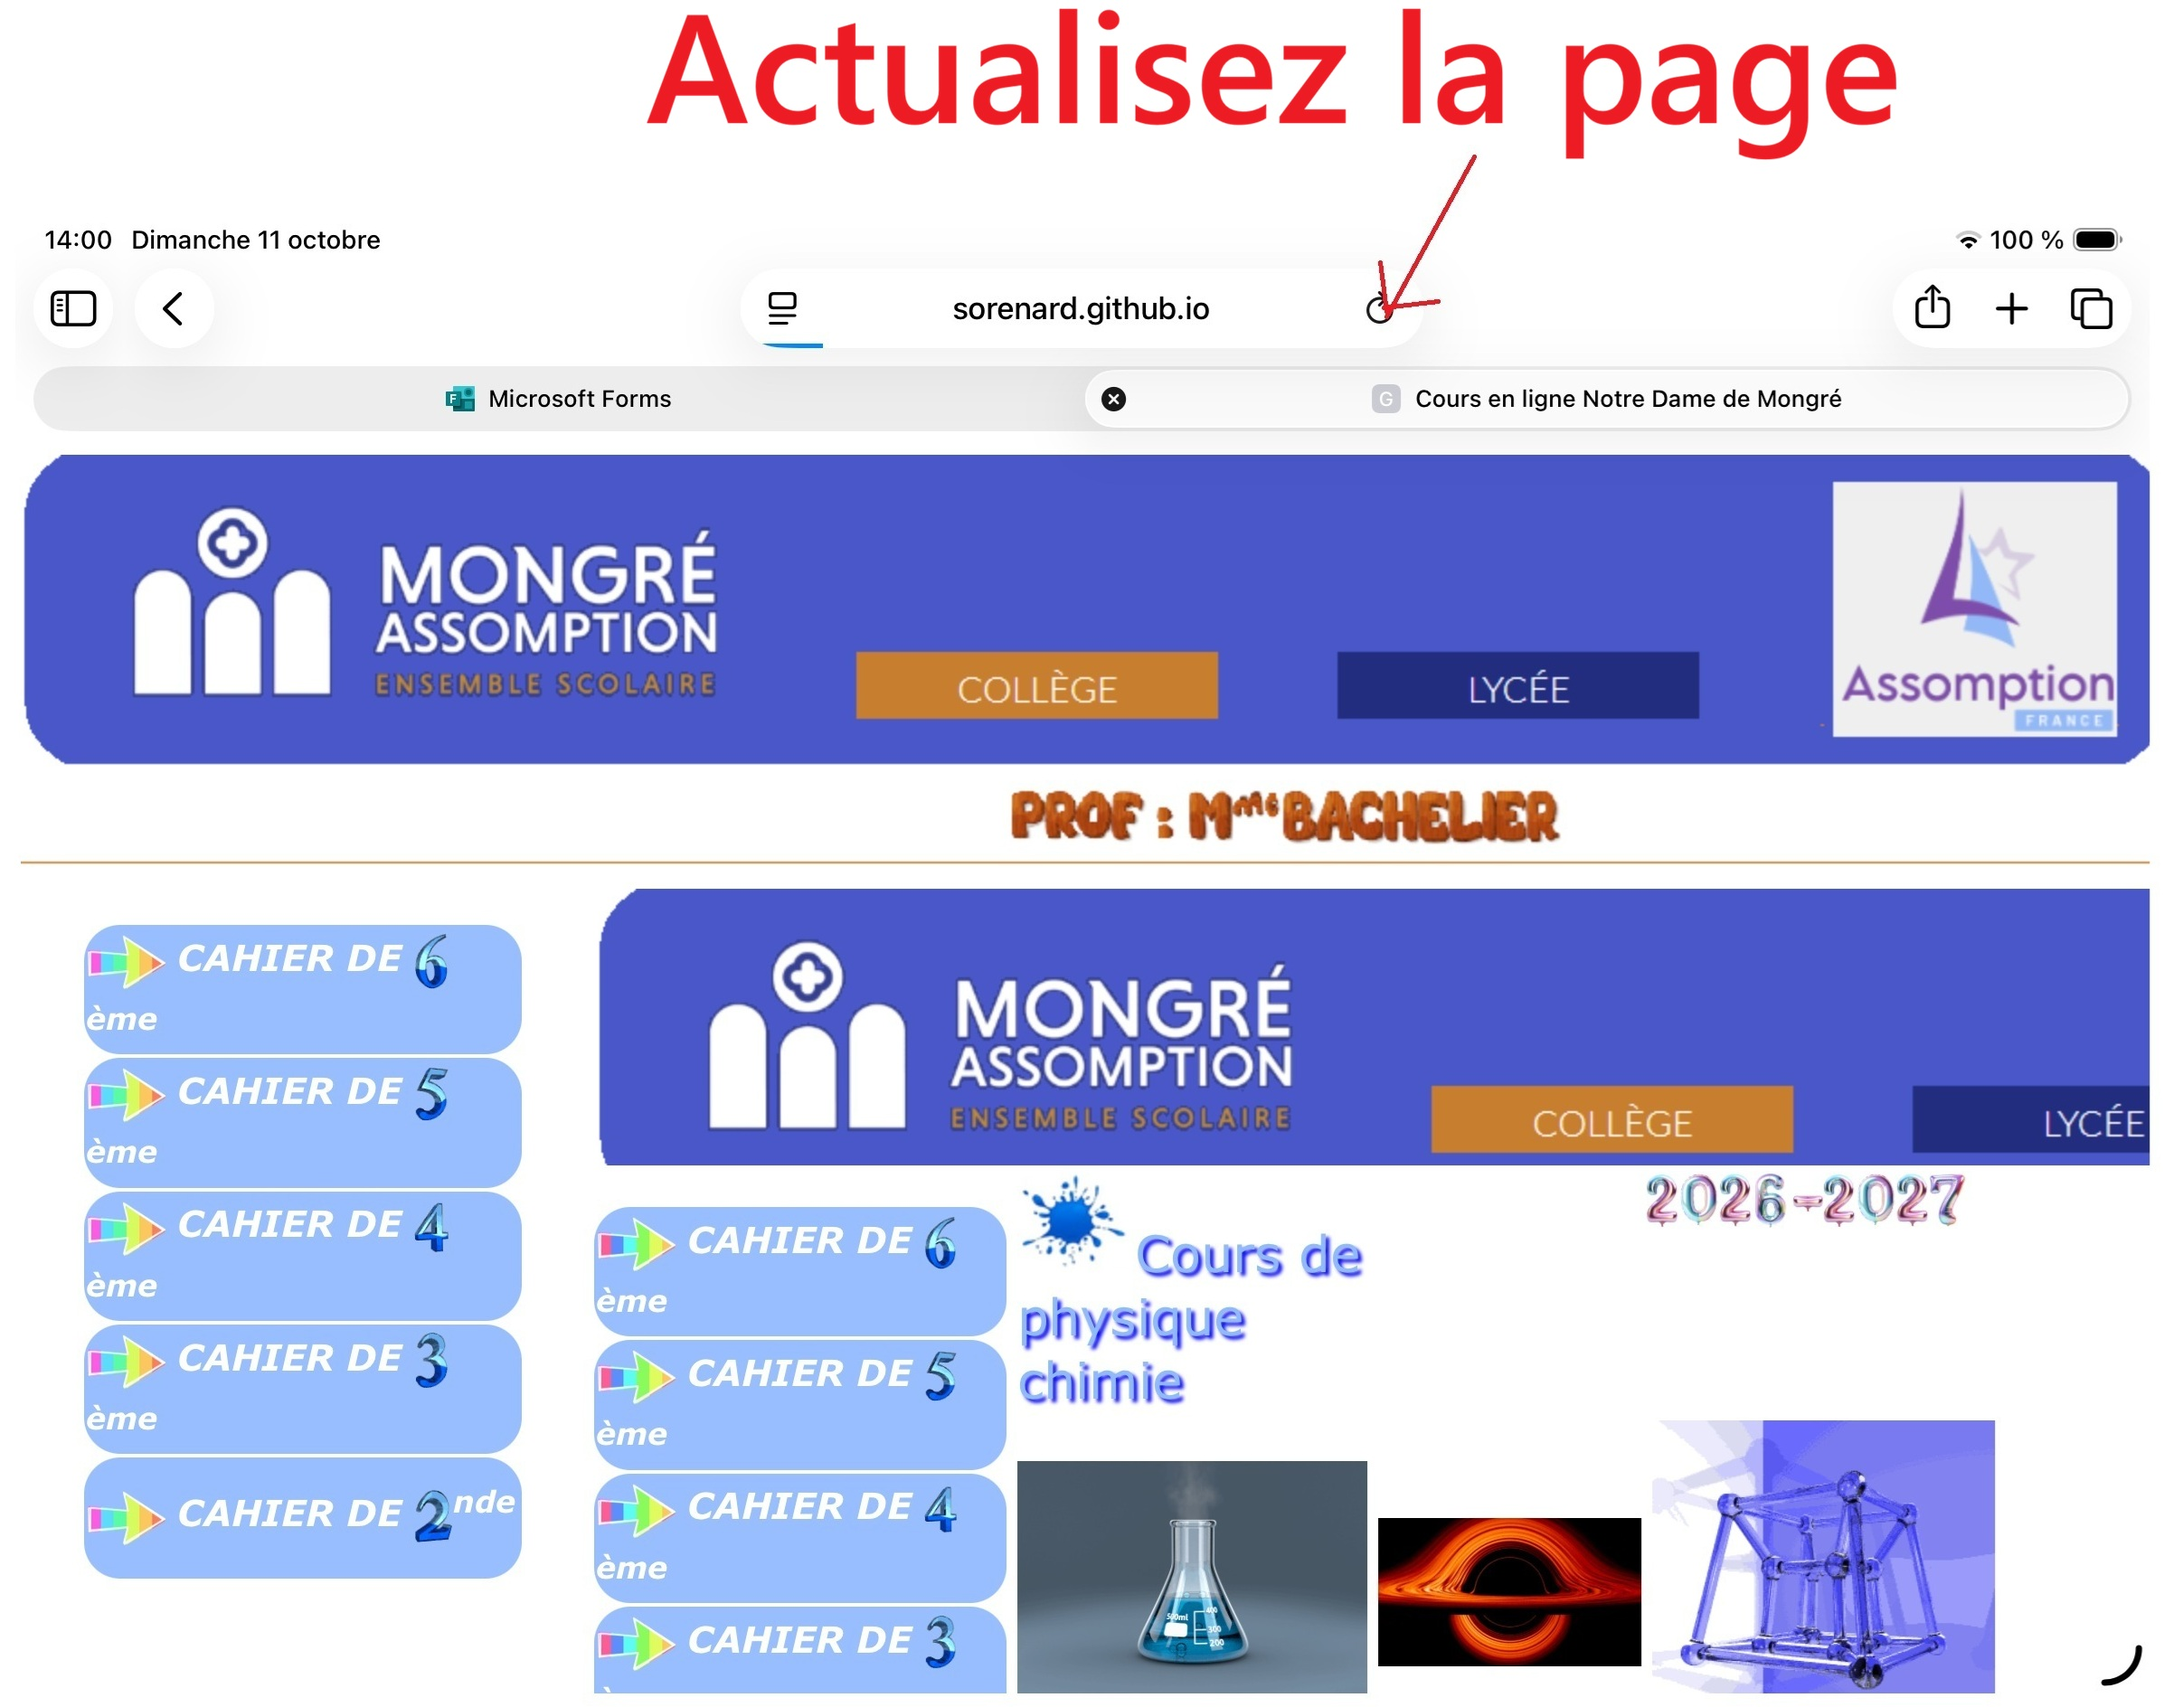
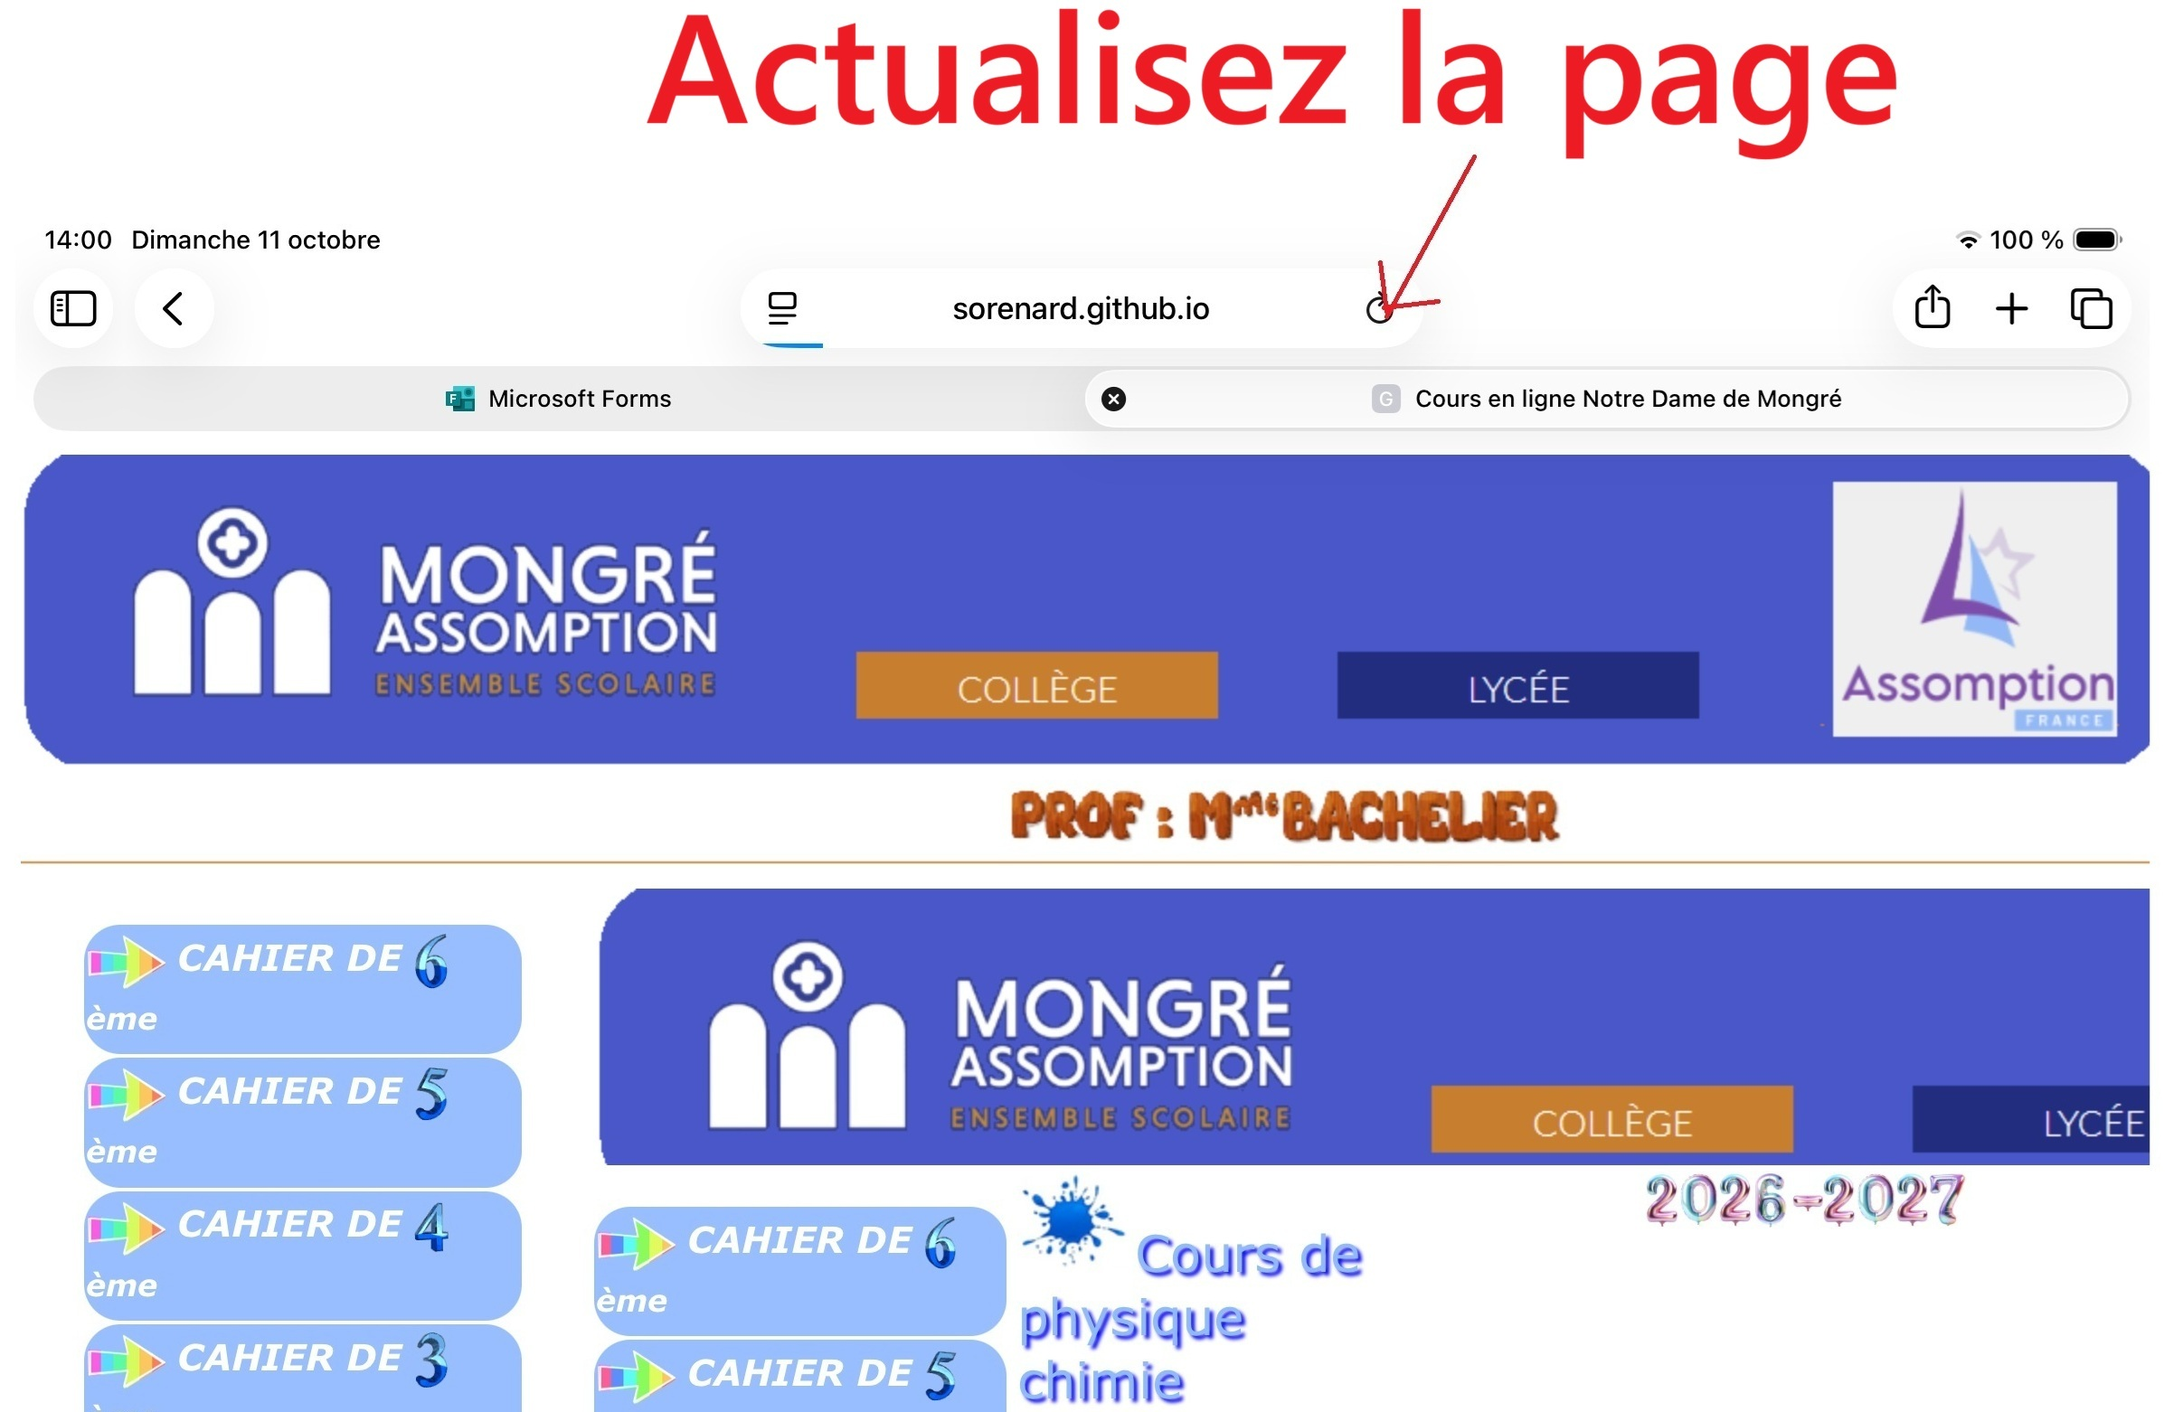
envoi44

diff --git a/htm/2FAQ2-1.htm b/htm/2FAQ2-1.htm
@@ -17,11 +17,11 @@
 				<tr>
 					<td  rowspan=2><img src="../images/actualpage.jpg" alt=image border=0 align=left width=110%></td>
 					<td>
-					<td><img src="../images/actualpage2.jpg" alt=image border=0 align=left width=90%></td>
+					<td><img src="../images/actualpage2.jpg" alt=image border=0 align=left width=70%></td>
 				</tr>
 				<tr><td></td>
 					<td>
-					<a href="https://sorenard.github.io/cours.phys.mongre/2pdf/quizz3.pdf"><img src="../images/pdf.gif" alt=image border=0 width=70% align=center>
+					<a href="../2pdf/quizz3.pdf"><img src="../images/pdf.gif" alt=image border=0 width=35% align=center>
 					</a></td>
 				</tr>
 				</table>
